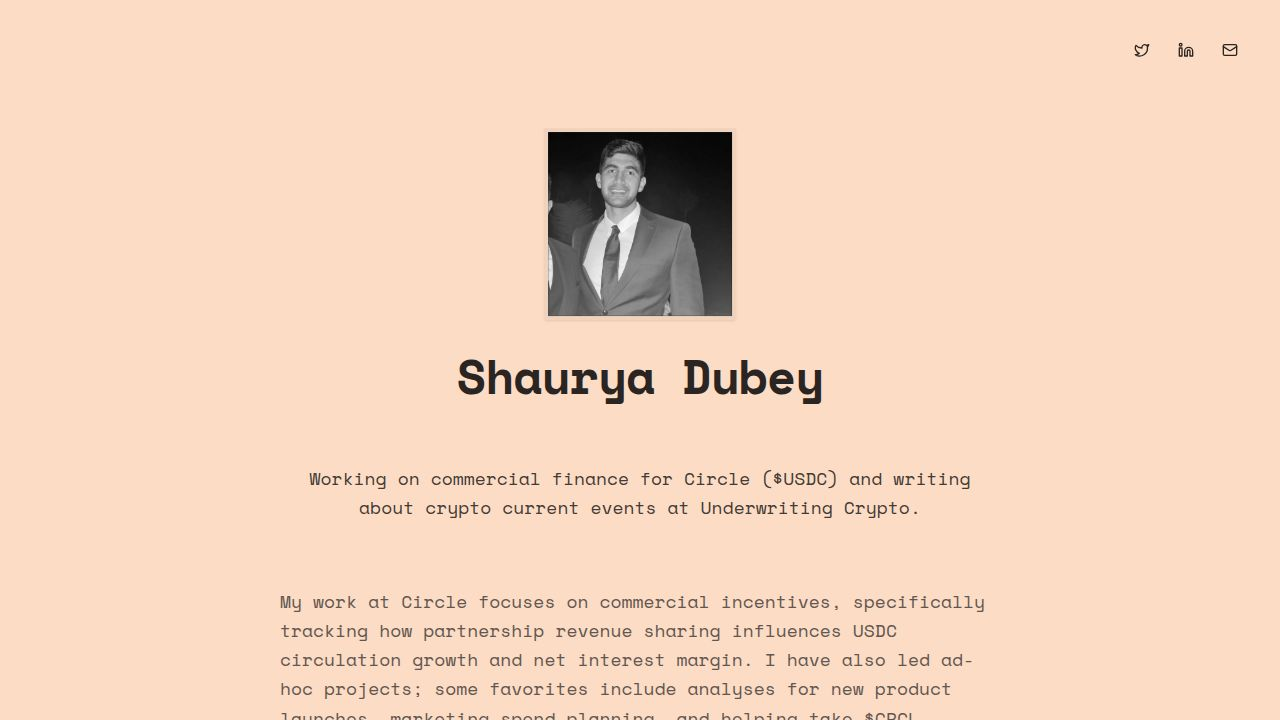
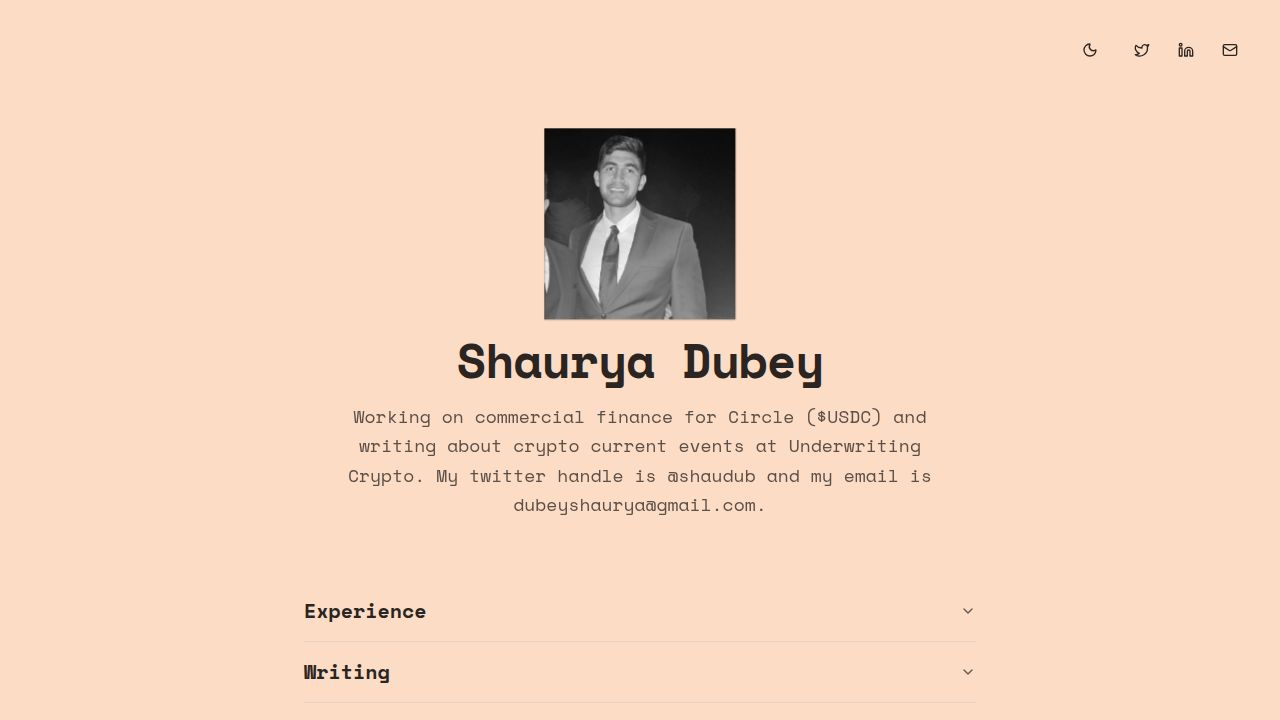
Add theme toggle and remove profile picture border
Implement a theme toggle for light/dark mode and remove the border from the profile image.

Replit-Commit-Author: Agent
Replit-Commit-Session-Id: 7a03fe00-62ed-4442-808b-700cfdacd129
Replit-Commit-Checkpoint-Type: full_checkpoint
Replit-Commit-Event-Id: 53cda733-d3e2-470a-a2db-5420d826da99
Replit-Commit-Screenshot-Url: https://storage.googleapis.com/screenshot-production-us-central1/9d0385e8-503a-46c3-971e-befe792d3134/7a03fe00-62ed-4442-808b-700cfdacd129/12ryvjq
Replit-Helium-Checkpoint-Created: true

diff --git a/client/src/pages/home.tsx b/client/src/pages/home.tsx
@@ -1,6 +1,6 @@
 import { motion } from "framer-motion";
 import { Button } from "@/components/ui/button";
-import { Linkedin, Mail, Twitter } from "lucide-react";
+import { Linkedin, Mail, Twitter, Moon, Sun } from "lucide-react";
 import profileImage from "@assets/IMG_1569_1766626569319.png";
 import {
   Accordion,
@@ -8,13 +8,46 @@ import {
   AccordionItem,
   AccordionTrigger,
 } from "@/components/ui/accordion";
+import { useState, useEffect } from "react";
 
 export default function Home() {
+  const [theme, setTheme] = useState("light");
+
+  useEffect(() => {
+    const isDark = window.matchMedia("(prefers-color-scheme: dark)").matches;
+    setTheme(isDark ? "dark" : "light");
+  }, []);
+
+  useEffect(() => {
+    if (theme === "dark") {
+      document.documentElement.classList.add("dark");
+    } else {
+      document.documentElement.classList.remove("dark");
+    }
+  }, [theme]);
+
+  const toggleTheme = () => {
+    setTheme(theme === "light" ? "dark" : "light");
+  };
+
   return (
-    <div className="min-h-screen w-full bg-background relative selection:bg-primary/10">
+    <div className="min-h-screen w-full bg-background relative selection:bg-primary/10 transition-colors duration-300">
       {/* Top Right Navigation */}
       <nav className="absolute top-6 right-6 md:top-8 md:right-8 z-10">
         <div className="flex gap-2">
+          <Button 
+            variant="ghost" 
+            size="icon" 
+            onClick={toggleTheme}
+            className="rounded-full hover:bg-foreground hover:text-background transition-colors mr-2"
+          >
+            {theme === "light" ? (
+              <Moon className="h-5 w-5" />
+            ) : (
+              <Sun className="h-5 w-5" />
+            )}
+            <span className="sr-only">Toggle theme</span>
+          </Button>
           <Button variant="ghost" size="icon" className="rounded-full hover:bg-foreground hover:text-background transition-colors">
             <Twitter className="h-5 w-5" />
             <span className="sr-only">X (Twitter)</span>
@@ -45,7 +78,7 @@ export default function Home() {
               transition={{ delay: 0.2, duration: 0.5 }}
               className="shrink-0 mb-4"
             >
-              <div className="w-40 h-40 md:w-48 md:h-48 overflow-hidden shadow-sm border-4 border-foreground/5">
+              <div className="w-40 h-40 md:w-48 md:h-48 overflow-hidden shadow-sm">
                 <img 
                   src={profileImage} 
                   alt="Profile Picture" 
